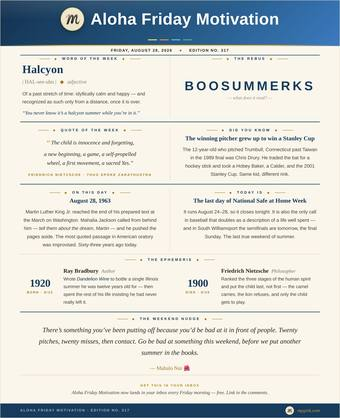
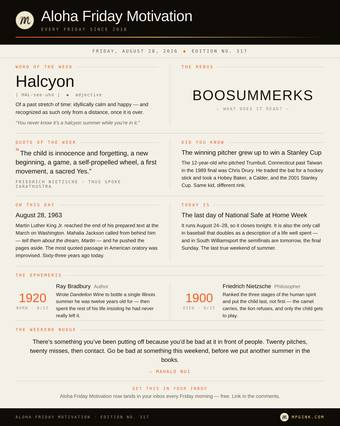
AFM archive: Ed317 on the new card system, plus halcyon and the sign-off song
Follows the AFM repo's design change (56abcae), where Matthew adopted the
Gallery at Night reskin for the visual card.

**Files touched + blast radius**
- images/afm/afm-ed317-card.jpg — the reskinned card (1920x2404)
- images/afm/thumbs/afm-ed317-thumb.jpg — regenerated from it
- afm/content/ed317.md — narrative now carries "halcyon" and the sign-off song
- afm/ed317.html, newsletter.html — REGENERATED from the manifest

Blast radius is the Ed317 page, its catalog row and its two images. No shared
CSS, nav or footer touched — the site's own Gallery at Night system is what the
card moved ONTO, so nothing here had to change to accommodate it.

**What changed**
The card is no longer the almanac layout (Montserrat/Lora, navy gradient
masthead). It now uses the same tokens as this repo's style.css — wall #0f0c07,
cream #f3f0e8, accent #ff5a1f, AFM gold #ffcf6b, Archivo + Courier Prime. The
card and the archive page it sits on are finally one language.

The narrative gained two things at Matthew's direction: the Word of the Week
("halcyon") woven in where it carries the argument, and a sign-off song —
This Must Be the Place (Naive Melody) by Talking Heads — now a standing feature
rather than an occasional one.

**Verification performed**
- node scripts/check-site.mjs -> PASS (237 HTML pages, 8116 local references,
  signup.html ?src= param intact)
- python3 scripts/make-afm-thumbs.py -> thumbnail regenerated from the new card
[…]

diff --git a/afm/ed317.html b/afm/ed317.html
@@ -114,8 +114,10 @@
 <p>The child is <em>last</em>. Not the thing you start as and lose — the thing you spend the whole climb trying to get back to, and most people never do.</p>
 <p>Which reorders everything. The kids in South Williamsport aren’t at the beginning of the story. They’re at the end of it. They are doing, casually and in cleats, the hardest thing on the list.</p>
 <p><a href="https://en.wikipedia.org/wiki/Dandelion_Wine" target="_blank" rel="noopener">Ray Bradbury</a>, born this week in 1920, spent a whole novel trying to bottle one Illinois summer he was twelve years old for, and the rest of his life insisting he’d never left it. I don’t think he was being nostalgic. I think he was doing the climb.</p>
+<p>There’s a word for the kind of summer he was after — <em>halcyon</em>. Calm, golden, the good one. But the word has a catch built into it: it only ever applies backwards. Nobody in Williamsport in 1989 knew they were inside a halcyon summer. Nobody standing at a pitching machine missing his twentieth pitch in a row knew it either. You don’t get to award the label from inside. You only get to show up.</p>
 <p>And here’s the part I only notice as an adult. It isn’t the ferocity — though it’s there, worn on the sleeve, the kind of wanting adulthood slowly teaches you to keep indoors. It’s what happens right after. A kid strikes out to end a season he waited his whole short life for. He cries. Then he lines up and shakes twelve hands. That grace is unmatched anywhere in sport and it is performed, every August, entirely by twelve-year-olds.</p>
 <p>The final is Sunday. Another <strong><em>summer in the books</em></strong>.</p>
+<p><em>This week’s sign-off: <a href="https://www.youtube.com/watch?v=Fb2q141rMNE" target="_blank" rel="noopener">This Must Be the Place (Naive Melody) — Talking Heads</a>. Byrne said he was trying to write a love song that wasn’t corny. He got there by never once saying the word — just “home, is where I want to be,” over and over, until you believe him.</em></p>
 <p>There’s something you’ve been putting off because you’d be bad at it in front of people. Twenty pitches, twenty misses, then contact. Go be bad at something this weekend, before we put another summer in the books.</p>
 <p>Mahalo Nui. 🌺</p>
 <p><em>— Matthew</em></p>

diff --git a/afm/content/ed317.md b/afm/content/ed317.md
@@ -20,9 +20,13 @@ Which reorders everything. The kids in South Williamsport aren’t at the beginn
 
 [Ray Bradbury](https://en.wikipedia.org/wiki/Dandelion_Wine), born this week in 1920, spent a whole novel trying to bottle one Illinois summer he was twelve years old for, and the rest of his life insisting he’d never left it. I don’t think he was being nostalgic. I think he was doing the climb.
 
+There’s a word for the kind of summer he was after — *halcyon*. Calm, golden, the good one. But the word has a catch built into it: it only ever applies backwards. Nobody in Williamsport in 1989 knew they were inside a halcyon summer. Nobody standing at a pitching machine missing his twentieth pitch in a row knew it either. You don’t get to award the label from inside. You only get to show up.
+
 And here’s the part I only notice as an adult. It isn’t the ferocity — though it’s there, worn on the sleeve, the kind of wanting adulthood slowly teaches you to keep indoors. It’s what happens right after. A kid strikes out to end a season he waited his whole short life for. He cries. Then he lines up and shakes twelve hands. That grace is unmatched anywhere in sport and it is performed, every August, entirely by twelve-year-olds.
 
 The final is Sunday. Another ***summer in the books***.
+
+*This week’s sign-off: [This Must Be the Place (Naive Melody) — Talking Heads](https://www.youtube.com/watch?v=Fb2q141rMNE). Byrne said he was trying to write a love song that wasn’t corny. He got there by never once saying the word — just “home, is where I want to be,” over and over, until you believe him.*
 
 There’s something you’ve been putting off because you’d be bad at it in front of people. Twenty pitches, twenty misses, then contact. Go be bad at something this weekend, before we put another summer in the books.
 
